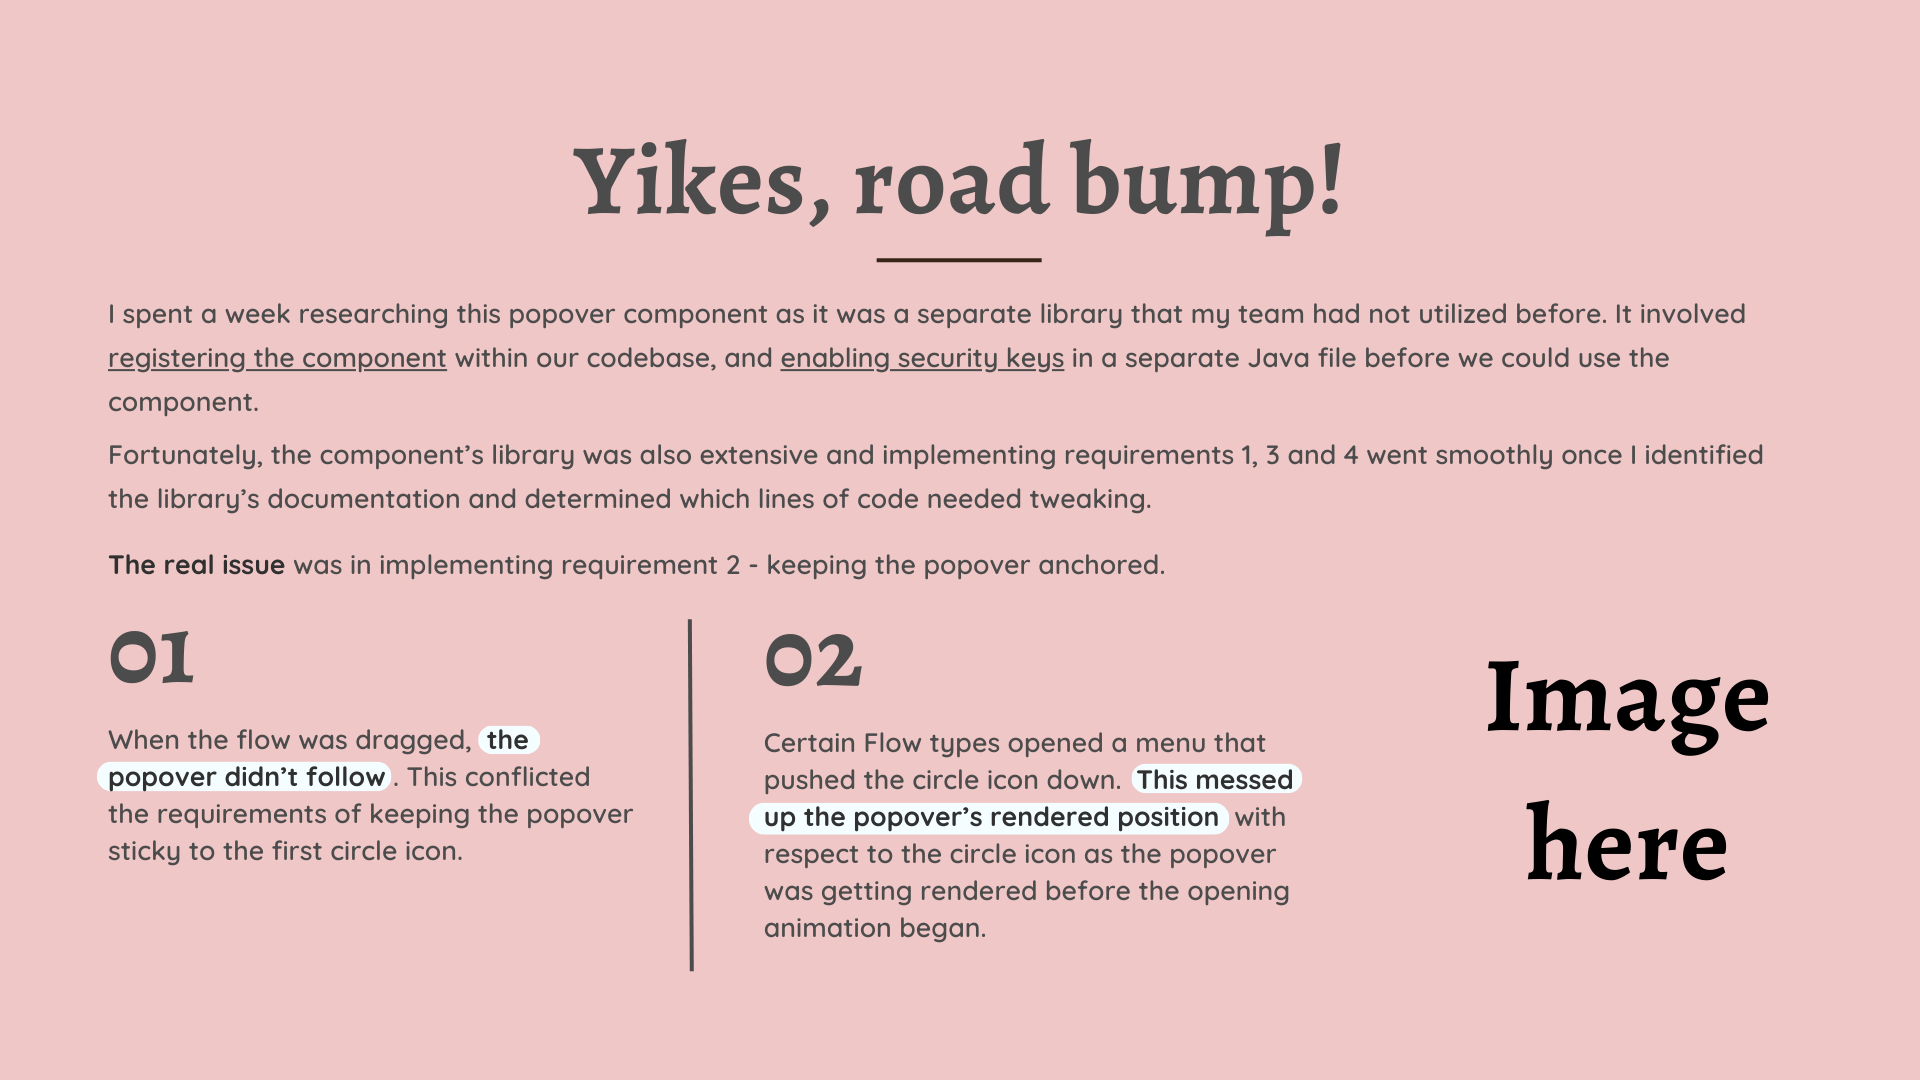
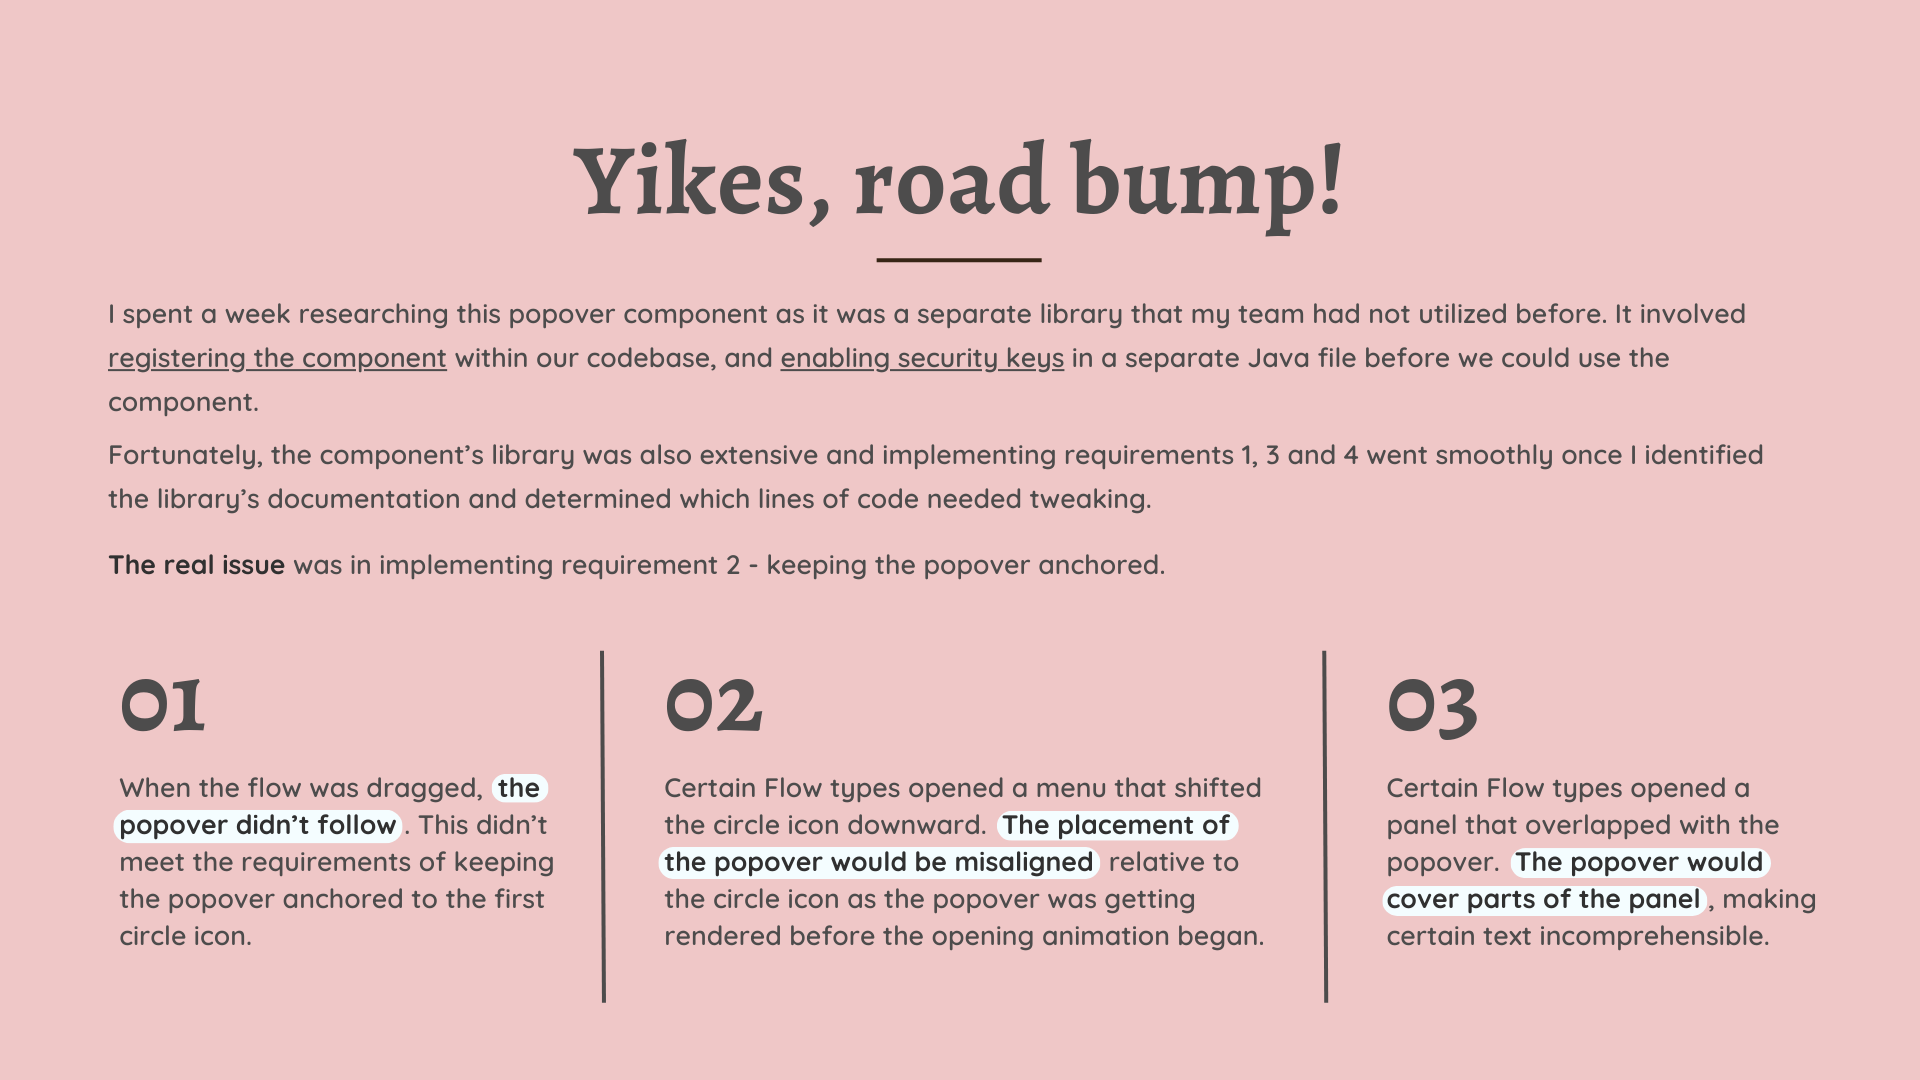
initial changes

Changed region(s): [[0.0312, 0.5806, 0.6875, 0.8861], [0.7188, 0.6111, 0.9375, 0.8861]]

diff --git a/public/pages/salesforce-canvas-enhancements.html b/public/pages/salesforce-canvas-enhancements.html
@@ -143,8 +143,19 @@
         <div class="row">
           <img class="popover-example padding-top" src="/img/canvas-enhancements/popover-eg.png" alt="popover example">
           <img class="popover-req" src="/img/canvas-enhancements/popover-requirements.png" alt="popover requirements">
-          <img class="popover-issue" src="/img/canvas-enhancements/popover-issue.png" alt="popover issue">
+          <img class="popover-issue-text" src="/img/canvas-enhancements/popover-issue.png" alt="popover issue">
+          <div class="popover-issue col">
+            <img class="popover-issue-gif padding-top" src="/img/canvas-enhancements/popover-issue.gif" alt="popover panning issue gif">
+            </br>
+            <p>An Example of Issue #1</p>
+          </div>
         </div>
+        <p class="short-padding-top">Multiple attempts at a solution were made to resolve the three issues in keeping the popover anchored. However, no solution could not solve all three issues simultaneously.</p>
+        </br>
+        <p class="highlight">Eventually, I sought the guidance of the Salesforce In-App Guidance team, and together, implemented an algorithm that keeps the popover anchored with every window resize and shift in Flow. This same algorithm has become a core piece in ensuring that the Flow remains <span>versatile</span> to diverse media sizes and user interactions.</p>
+        </br>
+        <p>Panels were also adjusted such that they would never overlap with the popover.</p>
+      </br>
       </div>
 
       <div class="shorten-distance-story">

diff --git a/public/css/canvas-enhancements.css b/public/css/canvas-enhancements.css
@@ -267,6 +267,14 @@ ul li {
   padding: 0 60px;
 }
 
+.popover-issue p {
+  text-align: center;
+}
+
+p.short-padding-top {
+  padding-top: 20px;
+}
+
 /* Image Styling */
 
 img {
@@ -297,9 +305,12 @@ img.color-contrast {
   width: 50%;
 }
 
-img.shorten-dist-issue,
-img.popover-issue {
+img.shorten-dist-issue {
   padding-bottom: 40px;
+}
+
+img.popover-issue-gif {
+  width: 60%;
 }
 
 img.plus-icon {
